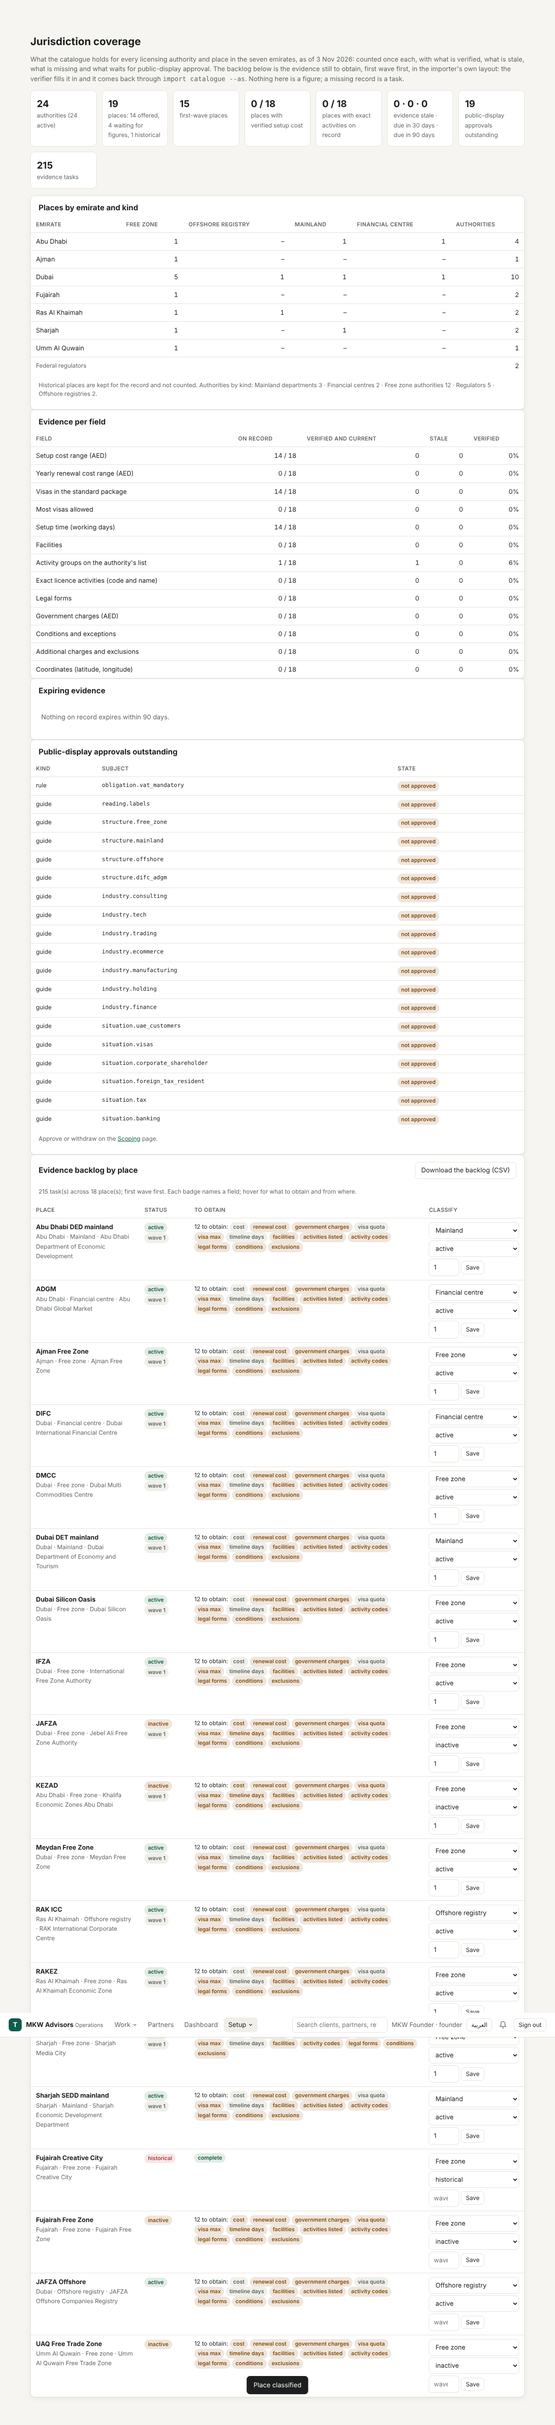
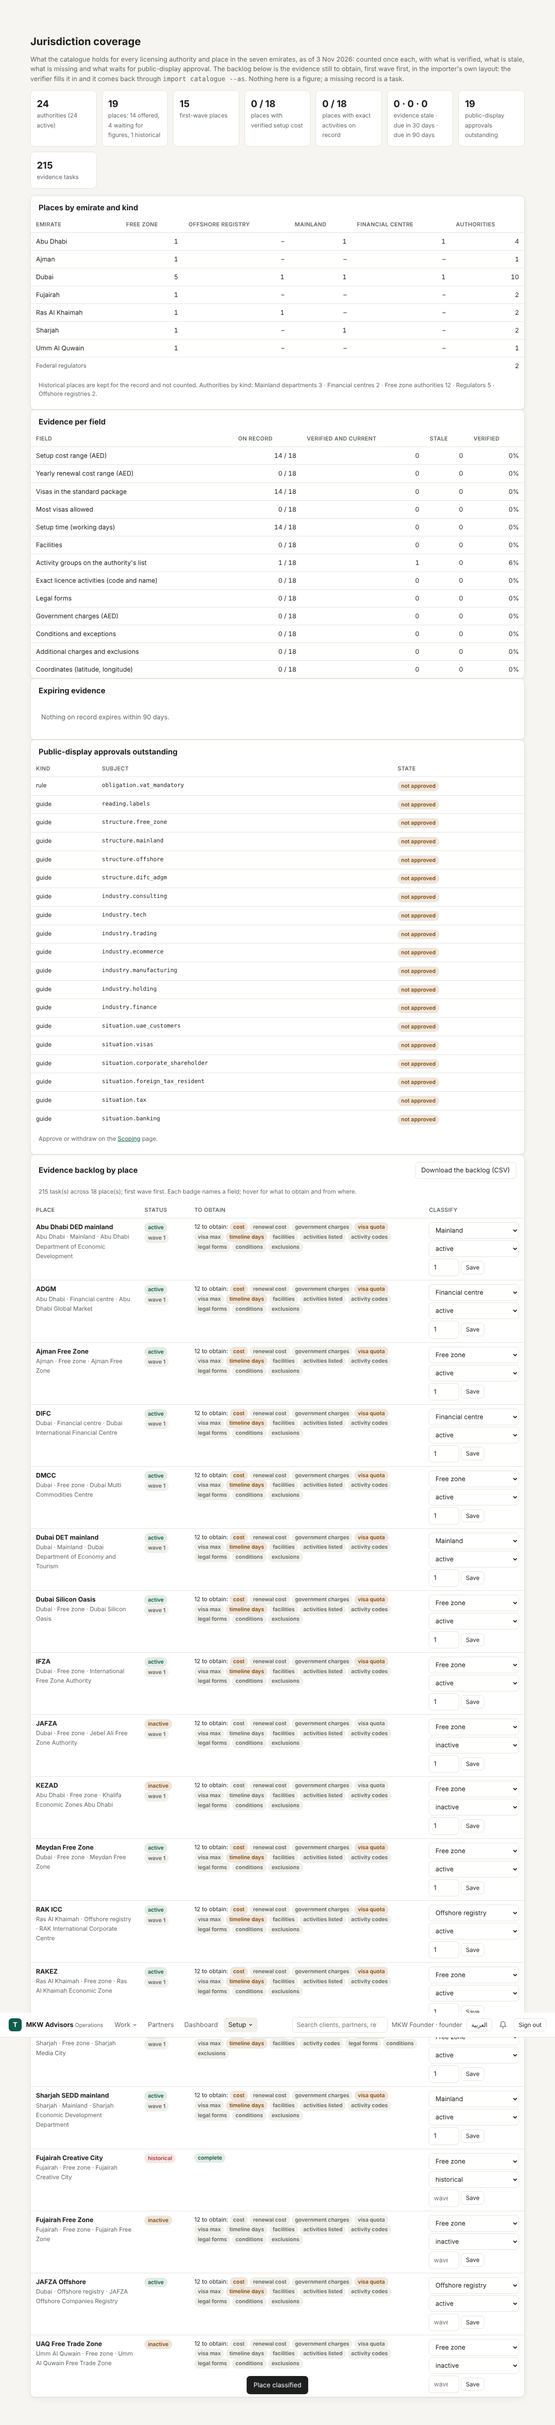
E7B review fixes: coverage reads the evidence, verify-zone carries the source kind, blank backlog cells, badge tones, honest engine-case tests; evidence refreshed
Claude-Session: https://claude.ai/code/session_01QzEGiu7q2Qy5LpHAKh2X9v

diff --git a/apps/api/test/coverage.test.ts b/apps/api/test/coverage.test.ts
@@ -74,9 +74,18 @@ describe("jurisdiction coverage and the evidence pipeline (E7B)", () => {
     expect(ifza.map((t: any) => t.field)).not.toContain("government_charges");
     expect(ifza.find((t: any) => t.field === "renewal_cost")).toMatchObject({ reason: "intermediary" });
     expect(ifza.find((t: any) => t.field === "cost")).toMatchObject({ reason: "unverified" });
-    // A placeholder place asks for everything.
+    // A placeholder place asks for everything until its figures are recorded; then those tasks drop off.
     expect(c.tasks.filter((t: any) => t.place === "KEZAD")).toHaveLength(12);
     expect(c.tasks.every((t: any) => /^Obtain /.test(t.ask))).toBe(true);
+    for (const [field, valueText] of [["cost", "18,000 - 40,000"], ["visa_quota", "3"], ["timeline_days", "12"]]) expect((await fact({ subject: "KEZAD", field, valueText, confidence: "rule_of_thumb", sourceUrl: "https://kezad.example/" })).status).toBe(200);
+    expect((await fact({ subject: "IFZA", field: "visa_max", valueText: "no limit", confidence: "rule_of_thumb" })).status).toBe(200);
+    const c2 = (await env.call("ops", "GET", "/api/admin/coverage")).body;
+    // Recorded as rules of thumb: on record now, still asked for as unverified (not missing) until the authority's page is cited.
+    expect(c2.tasks.find((t: any) => t.place === "KEZAD" && t.field === "cost")).toMatchObject({ reason: "unverified" });
+    expect(c2.tasks.filter((t: any) => t.place === "KEZAD" && t.reason === "missing")).toHaveLength(9);
+    expect(c2.fields.cost.onRecord).toBe(15);
+    expect(c2.tasks.find((t: any) => t.place === "IFZA" && t.field === "visa_max")).toMatchObject({ reason: "unverified" });
+    expect(c2.fields.visa_max.onRecord).toBe(1);
   });
 
   it("the backlog CSV is in the importer's layout and imports back as a dry run that writes nothing", async () => {
@@ -85,20 +94,21 @@ describe("jurisdiction coverage and the evidence pipeline (E7B)", () => {
     expect(String(r.headers["content-type"])).toMatch(/text\/csv/);
     const text = String(r.body);
     const lines = text.trim().split("\n");
-    expect(lines[0]).toBe("Kind,Place or authority,Field,Value,Source,Evidence date,Confidence,Verified by,Next verification,Effective date,Reference,Source kind,Note");
+    expect(lines[0]).toBe("Kind,Place or authority,Field,Value,Source,Evidence date,Confidence,Verified by,Next verification,Effective date,Reference,Source kind,Note,To obtain");
     expect(lines.length).toBeGreaterThan(50);
     const before = await count(env, "catalogue_facts");
+    const outboxBefore = await count(env, "outbox");
     const grid = lines.map((l) => l.replace(/"[^"]*"/g, (m) => m.replace(/,/g, ";")).replace(/"/g, "").split(","));
     const report = await asPlatform(env.db, null, (tx) => importCatalogueFacts(tx, grid, "backlog.csv"));
     expect(report.rows.length).toBe(lines.length - 1);
     expect(report.rows.every((x) => x.action === "skipped")).toBe(true);
     expect(await count(env, "catalogue_facts")).toBe(before);
-    expect(await count(env, "outbox")).toBe(await count(env, "outbox"));
+    expect(await count(env, "outbox")).toBe(outboxBefore);
   });
 
   it("only the founder classifies a place; a placeholder cannot be offered without figures; historical places leave the counts; audited", async () => {
     expect((await env.call("ops", "POST", "/api/admin/jurisdictions/places/SHAMS/status", { status: "historical" })).status).toBe(403);
-    expect((await env.call("founder", "POST", "/api/admin/jurisdictions/places/KEZAD/status", { status: "active" })).body.message).toMatch(/no cost, visa quota, timeline days on record/);
+    expect((await env.call("founder", "POST", "/api/admin/jurisdictions/places/JAFZA/status", { status: "active" })).body.message).toMatch(/no cost, visa quota, timeline days on record/);
     expect((await env.call("founder", "POST", "/api/admin/jurisdictions/places/No Such/status", { status: "inactive" })).status).toBe(404);
     expect((await env.call("founder", "POST", "/api/admin/jurisdictions/places/SHAMS/status", { placeKind: "sub_zone", status: "historical", priority: null })).status).toBe(200);
     const c = (await env.call("ops", "GET", "/api/admin/coverage")).body;
@@ -110,6 +120,11 @@ describe("jurisdiction coverage and the evidence pipeline (E7B)", () => {
     const ev = (await asPlatform(env.db, null, (tx) => tx.query("select data from audit_events where action = 'catalogue.place_classified' and entity_id = 'SHAMS'"))).rows as any[];
     expect(ev).toHaveLength(1);
     expect(ev[0].data.after).toMatchObject({ status: "historical", placeKind: "sub_zone" });
+    // The legacy verify-zone path cannot offer a historical place, and cannot mark an intermediary's figure verified.
+    const vz = await env.call("founder", "PUT", "/api/admin/scoping/zones/SHAMS", { confidence: "UNCERTAIN", active: true });
+    expect([vz.status, JSON.stringify(vz.body)]).toEqual([400, expect.any(String)]);
+    expect(vz.body.message).toMatch(/historical place is not offered/);
+    expect((await env.call("founder", "PUT", "/api/admin/scoping/zones/IFZA", { confidence: "verified", verifiedBy: "A. Q", sourceUrl: "https://agent.example/ifza", sourceKind: "intermediary" })).body.message).toMatch(/intermediary cannot be verified/);
     expect((await env.call("founder", "POST", "/api/admin/jurisdictions/places/SHAMS/status", { placeKind: "free_zone", status: "active", priority: 1 })).status).toBe(200);
     expect((await env.call("ops", "GET", "/api/admin/coverage")).body.places.active).toBe(14);
   });

diff --git a/packages/core/test/engine-cases.test.ts b/packages/core/test/engine-cases.test.ts
@@ -45,10 +45,10 @@ describe("engine cases the contract lists (E7B, 2D)", () => {
 
   it("multiple activities needing separate approvals: one activity is assessed, the rest is a person's call", () => {
     const a = run({ activity: "finance", customers: "both", visas: 2, description: "Payments platform that also trades goods and runs a clinic" });
-    expect(a.structure.recommendation === null || ["difc_adgm", "mainland", "free_zone"].includes(a.structure.recommendation!)).toBe(true);
-    expect(a.licences.some((l) => l.ruleKey === "licence.financial")).toBe(true);
-    // Nothing in the advice claims the second and third activities are covered.
-    expect(texts(a)).not.toMatch(/clinic|goods/i);
+    // Only the named activity's licence point is raised: the engine never reads the description to add a second
+    // activity's approvals (health, food) on its own; those reach a person through the AI draft queue.
+    expect(a.licences.map((l) => l.ruleKey)).toEqual(["licence.financial"]);
+    expect(a.structure.recommendation).toBe("difc_adgm");
   });
 
   it("mainland access from a free zone is a condition, never a promise; selling onshore points to the mainland", () => {
@@ -93,9 +93,11 @@ describe("engine cases the contract lists (E7B, 2D)", () => {
 
   it("holding plus operating structures are not modelled: one entity is assessed and the combination is for a person", () => {
     const a = run({ activity: "holding", customers: "international", visas: 2, description: "Holding company above an operating trading company" });
-    expect((a.missingFacts ?? []).length + a.structure.reasons.length).toBeGreaterThan(0);
-    expect(texts(a)).not.toMatch(/two (companies|entities)|group structure is (fine|approved)/i);
-    expect(a.structure.recommendation).not.toBe("offshore"); // visas rule out offshore for the holding vehicle
+    // One holding vehicle is assessed (visas rule out offshore); nothing is said about the operating company or the
+    // group, which the engine does not model and a person settles.
+    expect(a.structure.recommendation).toBe("free_zone");
+    expect(texts(a)).toMatch(/holding vehicle/i);
+    expect(texts(a)).not.toMatch(/operating company|subsidiary|group structure|second (company|entity)/i);
   });
 
   it("tax residency concerns are flagged, never decided", () => {
@@ -115,9 +117,12 @@ describe("engine cases the contract lists (E7B, 2D)", () => {
   });
 
   it("legal forms within one jurisdiction are on record for the verifier but never decide eligibility", () => {
+    // The engine's input (Zone) carries no legal forms, so nothing in the advice can rest on them; this guards the
+    // boundary: a legal form reaching the candidates would be a change to make on purpose, with a rule behind it.
     const a = run({ activity: "tech", customers: "international", visas: 1 });
-    expect(JSON.stringify(a)).not.toMatch(/FZCO|FZE|LLC\b/);
-    expect(place(a, "IFZA").status).not.toBe("INELIGIBLE");
+    expect("legalForms" in zones[0]!).toBe(false);
+    expect(JSON.stringify(a)).not.toMatch(/legalForms|FZCO|FZE|LLC\b/);
+    expect(place(a, "IFZA").status).toBe("ELIGIBLE_VERIFIED");
   });
 
   it("a renewal is the services mode, not a fresh entity: no structure is recommended and the obligations are listed", () => {

diff --git a/apps/api/src/services/scoping.ts b/apps/api/src/services/scoping.ts
@@ -82,7 +82,7 @@ export async function verifyZone(
   tx: Queryable,
   actor: SessionUser,
   name: string,
-  input: { confidence: "verified" | "rule_of_thumb" | "UNCERTAIN"; verifiedBy?: string; sourceUrl?: string; costMinFils?: number; costMaxFils?: number; visaQuota?: number; timelineDays?: number; active?: boolean; nextVerification?: string },
+  input: { confidence: "verified" | "rule_of_thumb" | "UNCERTAIN"; verifiedBy?: string; sourceUrl?: string; costMinFils?: number; costMaxFils?: number; visaQuota?: number; timelineDays?: number; active?: boolean; nextVerification?: string; sourceKind?: "official" | "intermediary" },
 ) {
   if (actor.role !== "founder") throw forbidden("Only the founder verifies zone data");
   const before = (await tx.query<Record<string, unknown>>("select * from zones where name = $1", [name])).rows[0];
@@ -93,7 +93,9 @@ export async function verifyZone(
   const costMax = input.costMaxFils ?? num(before.cost_max_fils);
   if (costMin > costMax) throw badRequest("Minimum cost is above the maximum");
   const today = await catalogueToday(tx);
-  const common = { subjectKind: "place" as const, subject: name, sourceUrl, evidenceDate: today, confidence: input.confidence, verifiedBy: input.verifiedBy ?? null, nextVerification: input.nextVerification ?? null };
+  if (input.active === true && before.status === "historical") throw badRequest("A historical place is not offered: change its status on the Coverage page first");
+  // E7B: the source kind travels with the facts this writes; appendFact refuses a verified intermediary figure.
+  const common = { subjectKind: "place" as const, subject: name, sourceUrl, evidenceDate: today, confidence: input.confidence, verifiedBy: input.verifiedBy ?? null, nextVerification: input.nextVerification ?? null, sourceKind: input.sourceKind ?? "official" };
   // A place added without figures (Umm Al Quwain, Fujairah) holds placeholders, not data. Each figure counts only
   // once it is given here or recorded as a fact; a placeholder is never verified, and the place is not offered until
   // its cost, visas and timeline are all on record.

diff --git a/apps/web/public/js/admin.js b/apps/web/public/js/admin.js
@@ -1,5 +1,5 @@
 // Tasees workspace: admin module (split from app.js in O12; plain ES modules, no build step).
-import { $app, act, addDaysIso, aed, api, badge, date, dateTime, deliverables, esc, lang, pct, role, route, seesMargin, state, table, words } from "./core.js";
+import { $app, act, addDaysIso, aed, api, badge, date, dateTime, deliverables, esc, lang, pct, role, route, seesMargin, state, table, tone, words } from "./core.js";
 
 export async function renderArabicSection() {
   const a = await api("GET", "/api/admin/arabic");
@@ -391,7 +391,7 @@ export async function renderCoverage() {
     const tasks = byPlace.get(p.name)?.fields ?? [];
     return `<tr><td><b>${esc(p.name)}</b><br><span class="small muted">${esc(p.emirate)} · ${esc(PLACE_KIND_LABEL[p.placeKind] ?? words(p.placeKind))}${p.authority ? ` · ${esc(p.authority)}` : ""}</span></td>
       <td>${badge(p.status === "active" ? "ok" : p.status === "historical" ? "expired" : "pending", p.status)}${p.priority ? ` ${badge("info", `wave ${p.priority}`)}` : ""}</td>
-      <td class="small">${tasks.length ? `${tasks.length} to obtain: ${tasks.map((t) => `<span class="badge ${REASON_LABEL[t.reason][0]}" title="${esc(t.ask)}">${esc(words(t.field))}</span>`).join(" ")}` : badge("ok", "complete")}</td>
+      <td class="small">${tasks.length ? `${tasks.length} to obtain: ${tasks.map((t) => `<span class="badge ${tone(REASON_LABEL[t.reason][0])}" title="${esc(REASON_LABEL[t.reason][1])}: ${esc(t.ask)}">${esc(words(t.field))}</span>`).join(" ")}` : badge("ok", "complete")}</td>
       ${founder ? `<td><form class="row" data-form="place-status" data-id="${esc(p.name)}" style="flex-wrap:wrap;gap:4px">
         <select name="placeKind" aria-label="Kind">${Object.entries(PLACE_KIND_LABEL).map(([k, l]) => `<option value="${k}" ${p.placeKind === k ? "selected" : ""}>${esc(l)}</option>`).join("")}</select>
         <select name="status" aria-label="Status">${["active", "inactive", "historical"].map((s) => `<option value="${s}" ${p.status === s ? "selected" : ""}>${s}</option>`).join("")}</select>

diff --git a/packages/core/src/coverage.ts b/packages/core/src/coverage.ts
@@ -161,10 +161,12 @@ export function coverageMatrix(asOf: string, authorities: CoverageAuthority[], p
 }
 
 /** The importer's own column layout, one row per task, for the verifier to fill in and send back. */
-export const BACKLOG_CSV_HEADER = ["Kind", "Place or authority", "Field", "Value", "Source", "Evidence date", "Confidence", "Verified by", "Next verification", "Effective date", "Reference", "Source kind", "Note"];
+export const BACKLOG_CSV_HEADER = ["Kind", "Place or authority", "Field", "Value", "Source", "Evidence date", "Confidence", "Verified by", "Next verification", "Effective date", "Reference", "Source kind", "Note", "To obtain"];
+/** The importer's columns left blank for the verifier (nothing pre-filled, not even the source kind); the ask sits in
+ *  a last column the importer does not read, so it never becomes a fact's note. */
 export function backlogCsv(tasks: EvidenceTask[]): string {
   const cell = (v: string) => (/[",\n]/.test(v) ? `"${v.replace(/"/g, '""')}"` : v);
   const lines = [BACKLOG_CSV_HEADER.join(",")];
-  for (const t of tasks) lines.push(["place", t.place, t.field, "", "", "", "", "", "", "", "", "official", `${t.reason}: ${t.ask}${t.priority ? ` (wave ${t.priority})` : ""}`].map(cell).join(","));
+  for (const t of tasks) lines.push(["place", t.place, t.field, "", "", "", "", "", "", "", "", "", "", `${t.reason}: ${t.ask}${t.priority ? ` (wave ${t.priority})` : ""}`].map(cell).join(","));
   return lines.join("\n") + "\n";
 }

diff --git a/apps/api/src/db/scoping-data.ts b/apps/api/src/db/scoping-data.ts
@@ -90,7 +90,9 @@ export const AUTHORITIES: Array<[string, string, "free_zone_authority" | "mainla
   ["shams", "Sharjah Media City", "free_zone_authority", "Sharjah", ["SHAMS", "Sharjah Media City Free Zone"]],
   ["rakez", "Ras Al Khaimah Economic Zone", "free_zone_authority", "Ras Al Khaimah", ["RAKEZ"]],
   ["ajman_fz", "Ajman Free Zone", "free_zone_authority", "Ajman", ["AFZ", "Ajman Free Zone Authority"]],
-  // The offshore registry only: "JAFZA" alone means the free zone, whose own licence is not a place here yet.
+  // The offshore registry; the free zone itself is the "jafza" authority above (E7B). The registry sits under the
+  // free zone authority in fact, and the verifier records that parent as a fact with its source; until then the two
+  // count as two authorities (KNOWN-GAPS 94).
   ["jafza_offshore", "JAFZA Offshore Companies Registry", "offshore_registry", "Dubai", ["JAFZA Offshore"]],
   ["uaq_ftz", "Umm Al Quwain Free Trade Zone", "free_zone_authority", "Umm Al Quwain", ["UAQ FTZ", "UAQ Free Trade Zone"]],
   ["fujairah_fz", "Fujairah Free Zone", "free_zone_authority", "Fujairah", ["FFZ", "Fujairah Free Zone Authority"]],

diff --git a/apps/api/src/services/catalogue.ts b/apps/api/src/services/catalogue.ts
@@ -501,12 +501,14 @@ export async function coverageReport(tx: Queryable, approvals: CoverageApproval[
     authorityId: p.authorityId,
     authority: p.authority ?? null,
     evidence: p.evidence ?? {},
+    // A placeholder place counts a figure as on record once a fact records it (the placeholder flag is never cleared);
+    // "no limit" for the most visas is a recorded value too, so the evidence decides, not the cached number.
     has: {
-      cost: !p.placeholder && p.costMinFils > 0,
+      cost: !!p.evidence?.cost?.factId || (!p.placeholder && p.costMinFils > 0),
       renewal_cost: p.renewalMinFils != null,
-      visa_quota: !p.placeholder,
-      visa_max: p.visaMax !== undefined && p.visaMax !== null,
-      timeline_days: !p.placeholder,
+      visa_quota: !p.placeholder || !!p.evidence?.visa_quota?.factId,
+      visa_max: !!p.evidence?.visa_max,
+      timeline_days: !p.placeholder || !!p.evidence?.timeline_days?.factId,
       facilities: !!p.facilities,
       activities_listed: !!p.activitiesListed,
       activity_codes: !!p.activityCodes,

diff --git a/packages/core/test/coverage.test.ts b/packages/core/test/coverage.test.ts
@@ -63,7 +63,8 @@ describe("coverage matrix (E7B)", () => {
     const [header, first] = csv.trim().split("\n");
     expect(header).toBe(BACKLOG_CSV_HEADER.join(","));
     expect(header).toMatch(/^Kind,Place or authority,Field,Value,Source,Evidence date,Confidence/);
-    expect(first).toMatch(/^place,IFZA,renewal_cost,,,,,,,,,official,"missing: Obtain /);
+    expect(first).toMatch(/^place,IFZA,renewal_cost,,,,,,,,,,,"missing: Obtain /);
+    expect(first).not.toMatch(/official/); // nothing is pre-filled, not even the source kind
     expect(csv).toMatch(/wave 1/);
     expect(csv.split("\n").filter(Boolean).length).toBe(m.tasks.length + 1);
   });

diff --git a/apps/api/src/routes/scoping.ts b/apps/api/src/routes/scoping.ts
@@ -38,6 +38,7 @@ export function registerScopingRoutes(ctx: RouteContext) {
       confidence: z.enum(["verified", "rule_of_thumb", "UNCERTAIN"]),
       verifiedBy: z.string().max(120).optional(),
       sourceUrl: z.string().max(500).optional(),
+      sourceKind: z.enum(["official", "intermediary"]).optional(),
       costMinAed: z.number().min(0).optional(),
       costMaxAed: z.number().min(0).optional(),
       visaQuota: z.number().int().min(0).max(100).optional(), // the same cap as a visa_quota fact

diff --git a/outcomes/E7B-jurisdiction-data.md b/outcomes/E7B-jurisdiction-data.md
@@ -1,6 +1,6 @@
 # E7B Jurisdiction data operations: coverage matrix, evidence pipeline, verification backlog
 
-Status: in-progress (branch `outcome/E7B-jurisdiction-data`, built on E7A; released by the owner on 3 Nov 2026 with the
+Status: verified-pending-merge (branch `outcome/E7B-jurisdiction-data`, built on E7A, merged as camayank/mkw-uae-growth#24; released by the owner on 3 Nov 2026 with the
 E7 contract, phase 2 "Regulatory data and jurisdiction intelligence")
 
 ## Business result
@@ -63,8 +63,7 @@ package or relationship is invented: a place without evidence stays "not on reco
 
 ## Dependencies and risks
 
-- Depends on E2 (merged) and E7A (open as a pull request; this branch is built on it and will be rebased or merged
-  once E7A lands).
+- Depends on E2 and E7A (both merged; main is merged into this branch).
 - Risk: classification of the seeded places is by public knowledge of what each is (a free zone, an offshore
   registry, a financial centre, a mainland department); nothing commercial or statutory rests on it.
 
@@ -83,8 +82,32 @@ package or relationship is invented: a place without evidence stays "not on reco
 | Claim | Evidence |
 | --- | --- |
 | Tests | `pnpm typecheck` clean; `pnpm test`: 125 core + 338 API (1 PostgreSQL-only test skipped on PGlite) = 463 (E7A: 108 + 334). New: `packages/core/test/coverage.test.ts` (counted once, sub-zone under its parent, historical excluded, tasks first wave first, CSV layout), `packages/core/test/engine-cases.test.ts` (one test per 2D case), `apps/api/test/coverage.test.ts` (reference, effective date and source kind on a fact; an intermediary cannot be verified in the service or the database; the matrix over the seed; the backlog CSV imports back and writes nothing; founder-only classification, audited, historical leaves the counts and the engine) |
-| Smoke | `docs/evidence/E7B/smoke-log.txt`: 242 checks OK on a fresh demo (E7A: 234), 8 marked E7B: the fact's reference and effective date in the history; the Coverage page's counts, matrix, backlog and classification forms; approvals outstanding and expiring evidence; the backlog CSV in the importer's layout; a place marked historical leaves the counts; the page at 390 px without overflow; axe at both widths |
+| Smoke | `docs/evidence/E7B/smoke-log.txt`: 243 checks OK on a fresh demo (E7A: 234, plus one E7A check added at its review), 8 marked E7B: the fact's reference and effective date in the history; the Coverage page's counts, matrix, backlog and classification forms; approvals outstanding and expiring evidence; the backlog CSV in the importer's layout; a place marked historical leaves the counts; the page at 390 px without overflow; axe at both widths |
 | Accessibility | `axe.json`: 45 screens at 1280 and 390 px, 0 violations (E7A: 43) |
 | Screens | `96-coverage.png` (1280 px, full page), `97-mobile-coverage.png` (390 px), `82-scoping-catalogue.png` (the record-evidence form with reference, effective date and source kind, and the history) |
+| Audit chain | `pnpm verify:audit` on the smoke demo: intact, 110 events |
 | Records | D86; KNOWN-GAPS 92–95; `docs/DESIGN.md` row; `docs/ENTITY-PROGRAMME.md` (directory row and E7B paragraph); `docs/DEPLOY.md` importer note; `docs/templates/catalogue-facts.csv` |
+
+## Independent review
+
+A separate reviewer read the whole diff before the pull request, with a throwaway probe over the test helpers and no
+repository changes. It confirmed that nothing is invented (the two new authorities assert name, emirate, kind and
+public aliases only; priority, kind and the verifier's fields never reach the engine, the public page or the client's
+advice), that the intermediary rule holds in the service, the database and the importer, that status and `active`
+agree on every write path, and that the backlog round-trips through the importer. Applied before the pull request:
+- **Must-fix.** A placeholder place kept reporting cost, visas and timeline as missing after they were recorded,
+  because the placeholder flag is never cleared (coverage now reads the evidence); "no limit" for the most visas,
+  stored as null, was counted as missing for ever (the evidence decides); a test compared the outbox count to
+  itself (now to a value taken before).
+- **Should-fix.** The legacy verify-zone endpoint wrote facts as official without asking (it takes a source kind
+  now, and the intermediary rule applies there too) and silently ignored "offer" on a historical place (refused
+  now, so the audit never records an intent that was not applied); the backlog pre-filled "official" and put the
+  task text in the Note column, which the importer would have stored as the fact's note (both blank now; the ask
+  is a last column the importer ignores); the task badges had no tone; JAFZA's free zone and its registry are two
+  authorities until the parent fact is recorded, and pre-E7B facts carry the migration's default source kind (both
+  written into gap 94); three engine-case tests could not fail (replaced with assertions on the engine's actual
+  non-claims: one licence point for one activity, one holding vehicle and no word about the group, no legal form
+  in the engine's input or output).
+- **Noted.** A database check tying `status` to `active` would turn the convention into a guarantee; left as a
+  follow-up.
 

diff --git a/docs/KNOWN-GAPS.md b/docs/KNOWN-GAPS.md
@@ -255,7 +255,10 @@ in a browser; everything listed here is not.
     place; the engine confirms the activity group only (D86). Matching a founder's description to an authority's
     code list, and several activities per assessment, need the lists in machine-readable form (gap 75).
 94. **Sub-zones are counted under their parent by kind only.** The parent relationship is an authority fact; the
-    coverage matrix does not yet draw the tree (authority, operating location, sub-zone) as a hierarchy.
+    coverage matrix does not yet draw the tree (authority, operating location, sub-zone) as a hierarchy. JAFZA's
+    free zone authority and its offshore registry are two authorities until the verifier records the parent fact.
+    Facts recorded before E7B carry `source_kind = official` by the migration's default; the verifier restates the
+    source kind when re-verifying them (and the legacy verify-zone endpoint assumes official unless told otherwise).
 95. **Legal forms within one jurisdiction never decide eligibility.** They are on record for the verifier; a test
     keeps the engine from guessing with them.
 

diff --git a/outcomes/E7A-public-product-ux.md b/outcomes/E7A-public-product-ux.md
@@ -1,6 +1,6 @@
 # E7A Public product UX: homepage, questionnaire and comparison
 
-Status: verified-pending-merge (branch `outcome/E7A-public-product-ux`; released by the owner on 3 Nov 2026 with the E7
+Status: merged (camayank/mkw-uae-growth#24; branch `outcome/E7A-public-product-ux`; released by the owner on 3 Nov 2026 with the E7
 contract "Commercial launch readiness and product excellence": "begin implementing E7A, together with any
 independent, essential work needed to make the selector genuinely useful")
 
